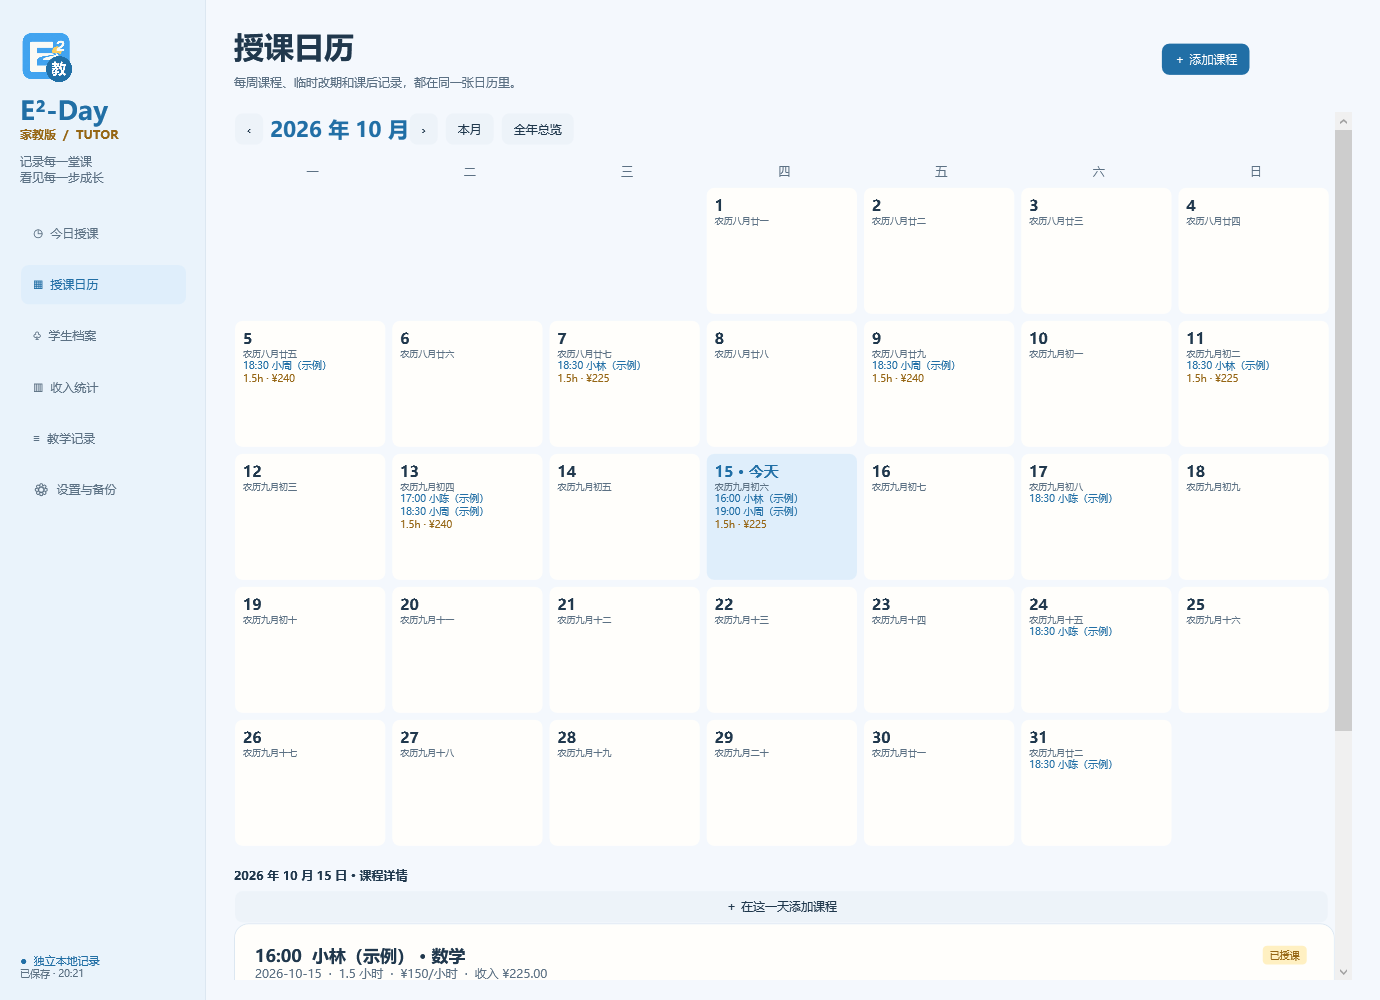
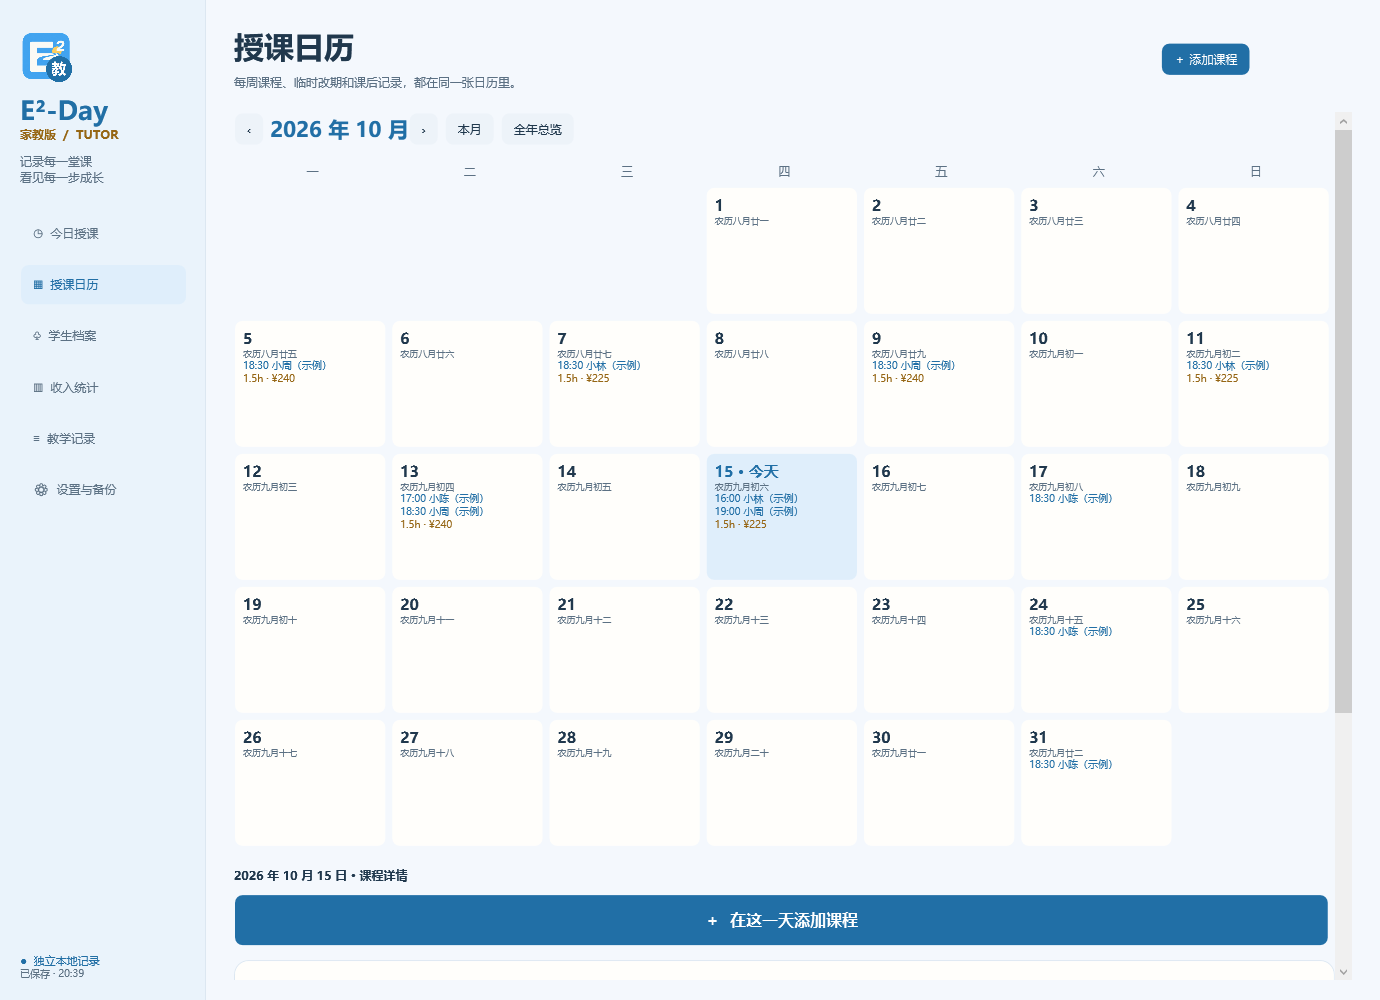
Publish E2-Day Tutor 1.0.1 with prominent calendar add-course action

Changed region(s): [[0.1558, 0.868, 0.9659, 0.992], [0.9659, 0.713, 0.9971, 0.744]]

diff --git a/src/DailyRecord.Tutor/TutorSmoke.cs b/src/DailyRecord.Tutor/TutorSmoke.cs
@@ -73,6 +73,9 @@ internal static class TutorSmoke
         window.Navigate(0); Prepare(window); Click(window, "copy:" + taught.Id); Check(copied.Contains("等量关系") && !copied.Contains("内部教学笔记"), "反馈复制泄露内部备注或丢失内容"); Snapshot(window, Path.Combine(output, "tutor-today.png"));
         window.WriteClipboard = _ => throw new UnauthorizedAccessException("测试剪贴板拒绝访问"); Click(window, "copy:" + taught.Id); Check(Descendants(window).OfType<TextBlock>().Any(t => t.Text.Contains("暂时无法访问剪贴板")), "剪贴板失败没有反馈"); window.WriteClipboard = text => copied = text;
         window.SelectDate(window.Today); Check(Descendants(window).OfType<Button>().Any(b => Equals(b.Tag, "day:2026-10-15")), "月历控件缺失"); Snapshot(window, Path.Combine(output, "tutor-calendar.png"));
+        window.SelectDate(window.Today.AddDays(14)); Prepare(window);
+        Descendants(window).OfType<ScrollViewer>().First().ScrollToEnd();
+        Snapshot(window, Path.Combine(output, "tutor-calendar-action.png"));
         window.SelectStudent(first.Id); Snapshot(window, Path.Combine(output, "tutor-student.png"));
         window.Navigate(3); Snapshot(window, Path.Combine(output, "tutor-income.png"));
         window.Navigate(4); Snapshot(window, Path.Combine(output, "tutor-records.png")); window.Navigate(5); Snapshot(window, Path.Combine(output, "tutor-settings.png"));
@@ -84,7 +87,7 @@ internal static class TutorSmoke
         var preview = NoteImages.CreatePreview(null, store.Images(taught.ImageIds).Single()); Prepare(preview); Check(preview.Content is not null, "图片预览失败");
         var before = service.State.Lessons.Count; var backup = Path.Combine(store.DirectoryPath, "ui-roundtrip.json"); store.Export(backup, service.State); service.Restore(backup); Check(service.State.Lessons.Count == before && store.Images(taught.ImageIds).Count == 1, "界面图文备份往返失败");
         window.Width = 1000; window.Height = 650; window.Navigate(0); Snapshot(window, Path.Combine(output, "tutor-compact.png")); Check(window.ActualWidth >= 0, "小窗口布局失败");
-        var result = $"PASS Tutor WPF: {_checks} checks\nVersion: {Assembly.GetExecutingAssembly().GetName().Version}\nArchitecture: {System.Runtime.InteropServices.RuntimeInformation.ProcessArchitecture}\nIsolatedData: {store.DirectoryPath}\nStudents: {service.State.Students.Count}\nLessons: {service.State.Lessons.Count}\nScreenshots: 8\n"; File.WriteAllText(Path.Combine(output, "result.txt"), result);
+        var result = $"PASS Tutor WPF: {_checks} checks\nVersion: {Assembly.GetExecutingAssembly().GetName().Version}\nArchitecture: {System.Runtime.InteropServices.RuntimeInformation.ProcessArchitecture}\nIsolatedData: {store.DirectoryPath}\nStudents: {service.State.Students.Count}\nLessons: {service.State.Lessons.Count}\nScreenshots: 9\n"; File.WriteAllText(Path.Combine(output, "result.txt"), result);
         await Task.CompletedTask;
     }
 }

diff --git a/src/DailyRecord.Tutor/TutorWindow.cs b/src/DailyRecord.Tutor/TutorWindow.cs
@@ -173,7 +173,16 @@ public sealed class TutorWindow : Window
             var button = Ui.Button("", () => { _selectedDate = day; Render(); }); button.Content = panel; button.Height = 128; button.HorizontalContentAlignment = HorizontalAlignment.Stretch; button.VerticalContentAlignment = VerticalAlignment.Top; button.Padding = new Thickness(8); button.Margin = new Thickness(0, 0, 5, 5); button.Background = _selectedDate == day ? Ui.Selected : Ui.Surface; button.Tag = "day:" + day.ToString("yyyy-MM-dd"); grid.Children.Add(button);
         }
         _body.Children.Add(grid);
-        var selected = _selectedDate ?? Today; _body.Children.Add(Ui.Label($"{selected:yyyy 年 M 月 d 日} · 课程详情")); _body.Children.Add(Ui.Button("＋ 在这一天添加课程", () => AddLesson(selected)));
+        var selected = _selectedDate ?? Today; _body.Children.Add(Ui.Label($"{selected:yyyy 年 M 月 d 日} · 课程详情"));
+        var addSelectedDate = Ui.Button("＋  在这一天添加课程", () => AddLesson(selected), accent: true);
+        addSelectedDate.FontSize = 16;
+        addSelectedDate.FontWeight = FontWeights.SemiBold;
+        addSelectedDate.MinHeight = 52;
+        addSelectedDate.Padding = new Thickness(20, 14, 20, 14);
+        addSelectedDate.Margin = new Thickness(0, 4, 6, 14);
+        addSelectedDate.Tag = "add-selected-date-lesson";
+        addSelectedDate.ToolTip = $"添加 {selected:yyyy 年 M 月 d 日} 的课程";
+        _body.Children.Add(addSelectedDate);
         foreach (var l in _service.Lessons(selected, selected)) _body.Children.Add(LessonCard(l));
     }
     private void MoveCalendar(int direction)
@@ -240,7 +249,7 @@ public sealed class TutorWindow : Window
     private int _recordStatus;
     private void SettingsPage()
     {
-        Header("设置与备份", "E²-Day 家教版 1.0.0 · 记录保存在这台电脑上。");
+        Header("设置与备份", $"E²-Day 家教版 {typeof(TutorWindow).Assembly.GetName().Version!.ToString(3)} · 记录保存在这台电脑上。");
         _body.Children.Add(Ui.Card(Ui.Stack(Ui.Text("本机账号 · " + AccountName, 18, Ui.Accent, true), Ui.Text("每个账号拥有独立的学生与课程记录。", 13, Ui.Muted), Ui.Button("切换 / 管理账号登录", () => SwitchAccount?.Invoke()))));
         var panel = Ui.Stack(Ui.Text("保护你的教学记录", 20, Ui.Accent, true), Ui.Text("运行当天自动备份，保留最近 30 天；导出的家教版备份包含学生、课程、反馈、图片和待办。恢复会替换当前账号记录，恢复前会另存一份备份。", 13, Ui.Muted));
         panel.Children.Add(Ui.Row(Ui.Button("导出家教版备份", ExportBackup, true), Ui.Button("从备份恢复", RestoreBackup))); panel.Children.Add(Ui.Label("当前账号数据目录")); panel.Children.Add(Ui.Text(_store.DirectoryPath, 12, Ui.Muted));

diff --git a/docs/TUTOR-GUIDE.md b/docs/TUTOR-GUIDE.md
@@ -1,10 +1,10 @@
 # E²-Day 家教版使用说明
 
-当前版本 **1.0.0**。面向一对一家教老师，记录学生、课程、课后反馈与授课收入。仅支持 Windows 64 位电脑，提供 x64 和 ARM64 自包含免安装程序包。
+当前版本 **1.0.1**。面向一对一家教老师，记录学生、课程、课后反馈与授课收入。仅支持 Windows 64 位电脑，提供 x64 和 ARM64 自包含免安装程序包。
 
 ## 下载与打开
 
-发布页：[家教版 1.0.0](https://github.com/yilaxin/E2-Day/releases/tag/tutor-v1.0.0)。Intel / AMD 电脑下载 `win-x64.zip`，Snapdragon 等 ARM 电脑下载 `win-arm64.zip`。完整解压后双击 **E2Day.Tutor.exe**，保留旁边的依赖文件和 Data 文件夹；无需另装 .NET。
+发布页：[家教版 1.0.1](https://github.com/yilaxin/E2-Day/releases/tag/tutor-v1.0.1)。Intel / AMD 电脑下载 `win-x64.zip`，Snapdragon 等 ARM 电脑下载 `win-arm64.zip`。完整解压后双击 **E2Day.Tutor.exe**，保留旁边的依赖文件和 Data 文件夹；无需另装 .NET。
 
 家教版使用带“教”字的图标。可对 exe 右键创建桌面快捷方式，命名为“E²-Day 家教版”。日常版程序仍为 DailyRecord.exe，两者可同时打开。
 
@@ -51,6 +51,10 @@
 ## 4. 授课日历
 
 默认显示月历，日期格子显示课程开始时间与学生摘要，并汇总当天已授课时长与收入。点击日期查看课程详情并添加课程；“全年总览”可查看各月已授课汇总并进入该月。
+
+日期详情中的“在这一天添加课程”使用蓝底白字的大按钮，点击后直接为当前所选日期录课。
+
+![日期详情添加课程按钮](images/tutor-calendar-action.png)
 
 保留 Eday 的农历和已打包节假日信息；未知年度不猜测法定放假与调休。课程日期与统计支持 1901–2100 年。
 
@@ -110,4 +114,4 @@
 ./scripts/Publish-GitHub.ps1 -Edition Tutor
 ```
 
-程序包位于 `artifacts/releases/tutor-v1.0.0`，发布标签为 `tutor-v1.0.0`，普通版仍使用原来的版本与标签。家教版发布不会替换仓库“最新版”的日常版入口。
+程序包位于 `artifacts/releases/tutor-v1.0.1`，发布标签为 `tutor-v1.0.1`，普通版仍使用原来的版本与标签。家教版发布不会替换仓库“最新版”的日常版入口。

diff --git a/README.md b/README.md
@@ -4,12 +4,12 @@
 
 # E²-Day · 探索每一天
 
-**新增独立的 [E²-Day 家教版 1.0.0](https://github.com/yilaxin/E2-Day/releases/tag/tutor-v1.0.0)**：授课日历、学生档案、课后图文反馈、每周排课与课时收入统计。与日常版分别运行、分别保存数据。详见[家教版使用说明](docs/TUTOR-GUIDE.md)。
+**新增独立的 [E²-Day 家教版 1.0.1](https://github.com/yilaxin/E2-Day/releases/tag/tutor-v1.0.1)**：授课日历、学生档案、课后图文反馈、每周排课与课时收入统计。与日常版分别运行、分别保存数据。详见[家教版使用说明](docs/TUTOR-GUIDE.md)。
 
 | 家教版 Windows 下载 | 程序包 |
 | --- | --- |
-| Intel / AMD 64 位电脑 | [E2-Day-Tutor-v1.0.0-win-x64.zip](https://github.com/yilaxin/E2-Day/releases/download/tutor-v1.0.0/E2-Day-Tutor-v1.0.0-win-x64.zip) |
-| ARM64 电脑 | [E2-Day-Tutor-v1.0.0-win-arm64.zip](https://github.com/yilaxin/E2-Day/releases/download/tutor-v1.0.0/E2-Day-Tutor-v1.0.0-win-arm64.zip) |
+| Intel / AMD 64 位电脑 | [E2-Day-Tutor-v1.0.1-win-x64.zip](https://github.com/yilaxin/E2-Day/releases/download/tutor-v1.0.1/E2-Day-Tutor-v1.0.1-win-x64.zip) |
+| ARM64 电脑 | [E2-Day-Tutor-v1.0.1-win-arm64.zip](https://github.com/yilaxin/E2-Day/releases/download/tutor-v1.0.1/E2-Day-Tutor-v1.0.1-win-arm64.zip) |
 
 完整解压后运行 **E2Day.Tutor.exe**。以下原有说明与“下载最新版本”链接继续对应日常版。
 

diff --git a/验证记录.md b/验证记录.md
@@ -1,5 +1,11 @@
 # 验证记录
 
+## 2026-10-15：家教版 1.0.1 · 日期详情按钮
+
+- 运行现有家教版 17 项核心测试及两个正式发布程序的 WPF 验证；检查版本 1.0.1.0、ARM64／x64 架构、依赖、文档与 SHA-256。
+- 使用隔离示例数据选择 2026 年 10 月 29 日，生成日期详情截图并目视核对蓝底白字、加粗文字、按钮高度及周围留白。沿用原有添加课程回调与所选日期。
+- 界面变更仅限家教版，未修改日常版界面、课程规则或数据格式。发布使用新标签 tutor-v1.0.1，公开后下载完整程序包对比 SHA-256，保留历史发布。
+
 ## 2026-10-15：E²-Day 家教版 1.0.0
 
 - 家教版核心 17 项全部通过：同日多学生与金额精度、按实际授课日归属、学生筛选、历史时薪快照、重复保存不重复计费、取消与恢复、每周预测、单次改期、修改后续与停止后续时保留历史、无效输入失败保留数据库、学生结课、家长反馈字段、图片备份恢复、缺图拒绝、备份篡改与跨版本格式拒绝、重启、30 份自动备份和日常版数据隔离。

diff --git a/docs/RELEASE-tutor-v1.0.1.md b/docs/RELEASE-tutor-v1.0.1.md
@@ -1,0 +1,11 @@
+# E²-Day 家教版 1.0.1 · 更醒目的添加课程按钮
+
+授课日历中，选中日期后的“在这一天添加课程”改为蓝底白字主按钮，文字加粗、字号增至 16，点击区域增高并增加周围留白，更容易找到和点击。继续为当前所选日期添加课程。
+
+![日期详情添加课程按钮](https://raw.githubusercontent.com/yilaxin/E2-Day/tutor-v1.0.1/docs/images/tutor-calendar-action.png)
+
+提供 Windows ARM64、x64 自包含免安装程序包。完整解压，关闭旧版后运行 E2Day.Tutor.exe，沿用原有家教版本机账号与数据。完整保留旧版本，日常版最新发布入口继续对应 v2.1.0。
+
+家教版核心测试及两个发布程序的 WPF 验证通过，检查程序版本、架构、必要文件与 SHA-256；公开后重新下载程序包进行完整校验。截图来自隔离示例数据。x64 程序在 Windows ARM64 的兼容环境验证。
+
+未做数字签名，许可继续保留版权并允许下载运行正式程序。使用步骤见[家教版说明](https://github.com/yilaxin/E2-Day/blob/tutor-v1.0.1/docs/TUTOR-GUIDE.md)。

diff --git a/使用说明.md b/使用说明.md
@@ -2,7 +2,7 @@
 
 ## 家教版独立入口
 
-如需记录学生、课程、课后反馈与授课收入，请下载独立的 [E²-Day 家教版](https://github.com/yilaxin/E2-Day/releases/tag/tutor-v1.0.0)，阅读[家教版使用说明](docs/TUTOR-GUIDE.md)。程序为 E2Day.Tutor.exe，数据保存在 E2DayTutor 目录，与日常版分别运行。本文件下方为日常版说明。
+如需记录学生、课程、课后反馈与授课收入，请下载独立的 [E²-Day 家教版](https://github.com/yilaxin/E2-Day/releases/tag/tutor-v1.0.1)，阅读[家教版使用说明](docs/TUTOR-GUIDE.md)。程序为 E2Day.Tutor.exe，数据保存在 E2DayTutor 目录，与日常版分别运行。本文件下方为日常版说明。
 
 Explore Everyday Day · 探索每一天。
 

diff --git a/CHANGELOG.md b/CHANGELOG.md
@@ -1,5 +1,10 @@
 # 版本记录
 
+## 家教版 1.0.1（tutor-v1.0.1，2026-10-15）
+
+- 授课日历日期详情中的“在这一天添加课程”改用蓝底白字主按钮，字号增至 16 并加粗，点击区域增高至至少 52，增加上下留白。
+- 保留所选日期的添加课程操作，增加日期提示；设置页版本号与程序版本一致，发布验证自动读取家教版版本。
+
 ## 家教版 1.0.0（tutor-v1.0.0，2026-10-15）
 
 - 新增独立 Windows 家教版 E2Day.Tutor.exe，独立本机账号、E2DayTutor 数据目录、tutor.db 与 E2DayTutorBackup 备份格式。日常版版本保持 2.1.0。
